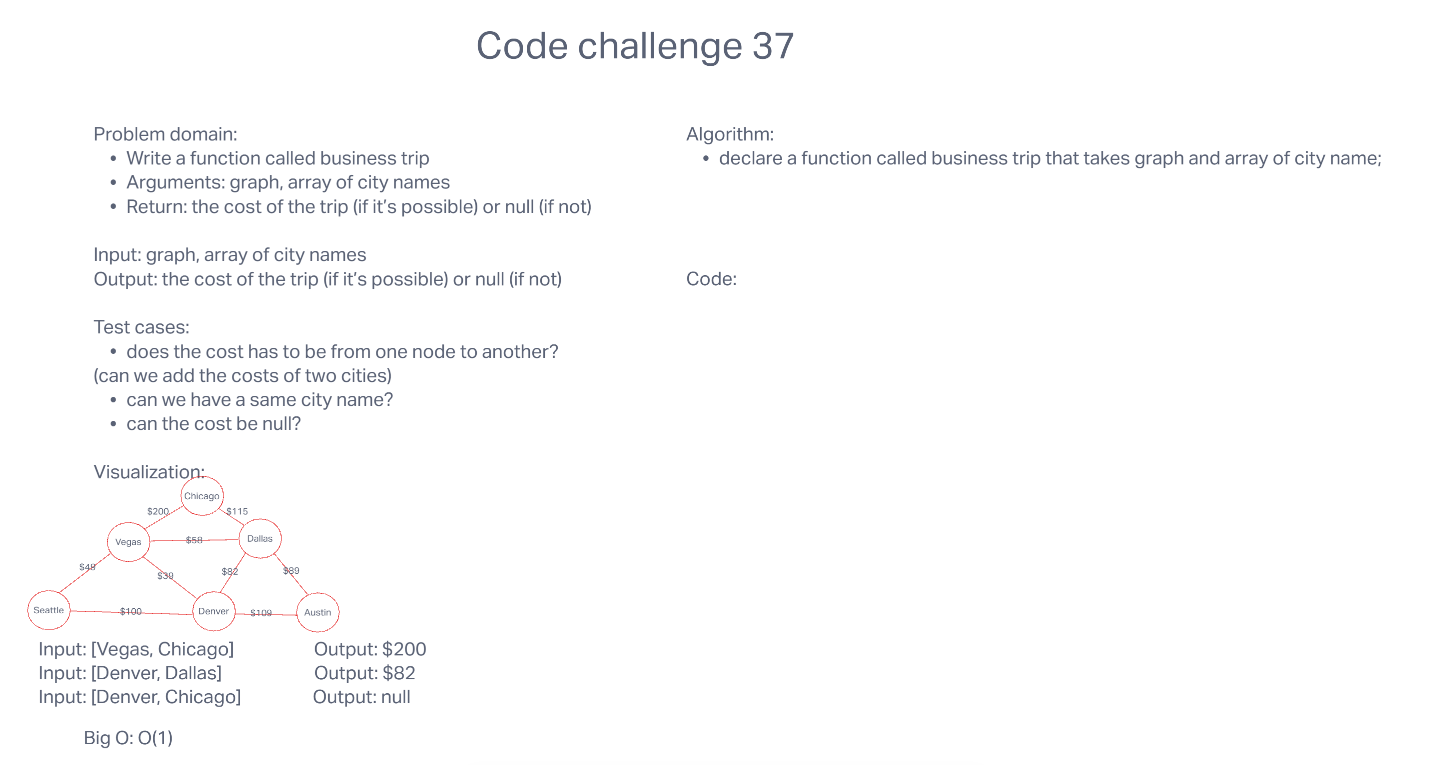
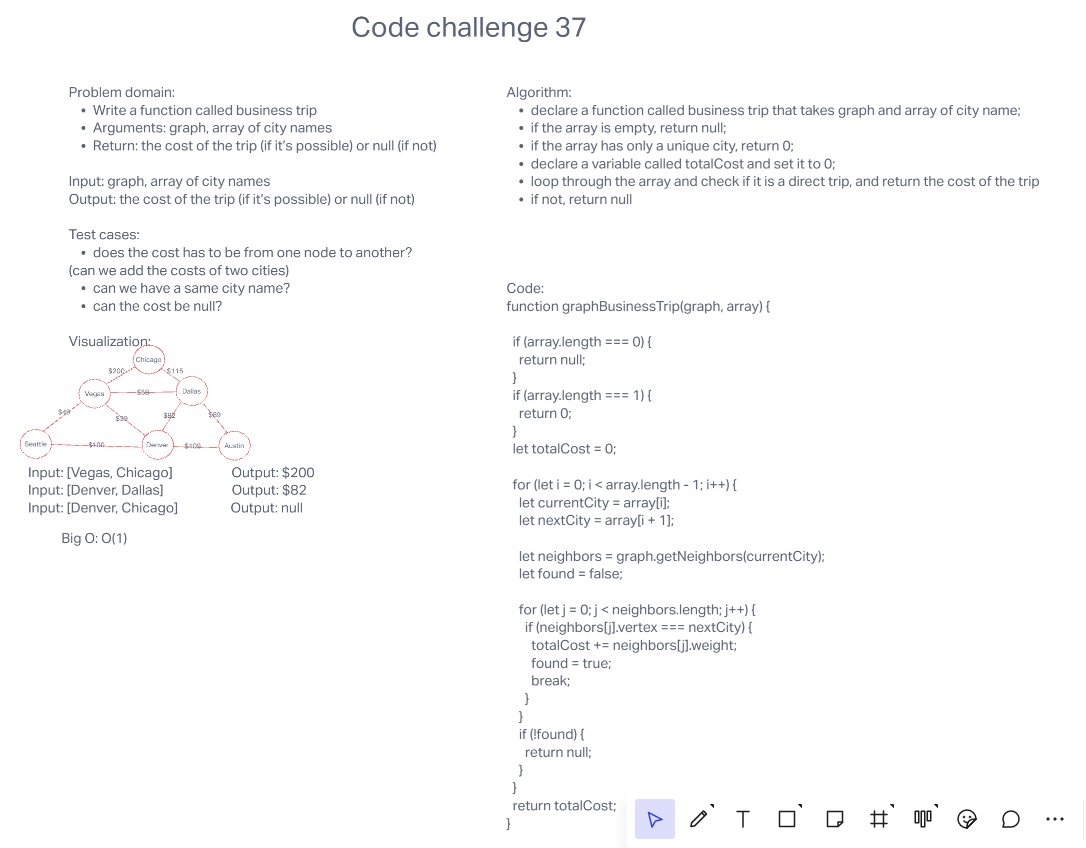
added code challenge 37

diff --git a/javascript/graph-business-trip/graph-business-trip-test.js b/javascript/graph-business-trip/graph-business-trip-test.js
@@ -1,0 +1,30 @@
+const businessTrip = require('./graph-business-trip');
+const { Graph } = require('../graph');
+
+describe('businessTrip', () => {
+
+  it('should return null if the array is empty', () => {
+    let graph = new Graph();
+    let array = [];
+    expect(businessTrip(graph, array)).toBeNull();
+  });
+
+  it('should return 0 if the array has one city', () => {
+    let graph = new Graph();
+    let array = ['Seattle'];
+    expect(businessTrip(graph, array)).toEqual(0);
+  });
+
+
+  it('should return the cost of the trip if the trip is possible', () => {
+    let graph = new Graph();
+    graph.addVertex('Seattle');
+    graph.addVertex('Portland');
+    graph.addVertex('San Francisco');
+    graph.addDirectedEdge('Seattle', 'Portland', 100);
+    graph.addDirectedEdge('Portland', 'San Francisco', 200);
+    let array = ['Seattle', 'Portland', 'San Francisco'];
+    expect(businessTrip(graph, array)).toEqual(300);
+  });
+
+});

diff --git a/javascript/graph-business-trip/graph-business-trip.js b/javascript/graph-business-trip/graph-business-trip.js
@@ -1,0 +1,34 @@
+'use strict';
+
+function graphBusinessTrip(graph, array) {
+
+  if (array.length === 0) {
+    return null;
+  }
+  if (array.length === 1) {
+    return 0;
+  }
+  let totalCost = 0;
+
+  for (let i = 0; i < array.length - 1; i++) {
+    let currentCity = array[i];
+    let nextCity = array[i + 1];
+
+    let neighbors = graph.getNeighbors(currentCity);
+    let found = false;
+
+    for (let j = 0; j < neighbors.length; j++) {
+      if (neighbors[j].vertex === nextCity) {
+        totalCost += neighbors[j].weight;
+        found = true;
+        break;
+      }
+    }
+    if (!found) {
+      return null;
+    }
+  }
+  return totalCost;
+}
+
+module.exports = graphBusinessTrip;

diff --git a/javascript/graph-business-trip/README.md b/javascript/graph-business-trip/README.md
@@ -12,7 +12,44 @@
 
 ## Approach & Efficiency
 
-
+* declare a function called business trip that takes graph and array of city name;
+* if the array is empty, return null;
+* if the array has only a unique city, return 0;
+* declare a variable called totalCost and set it to 0;
+* loop through the array and check if it is a direct trip, and return the cost of the trip
+* if not, return null
 
 ## Solution
 
+Code:
+
+function graphBusinessTrip(graph, array) {
+
+  if (array.length === 0) {
+    return null;
+  }
+  if (array.length === 1) {
+    return 0;
+  }
+  let totalCost = 0;
+  
+  for (let i = 0; i < array.length - 1; i++) {
+    let currentCity = array[i];
+    let nextCity = array[i + 1];
+
+    let neighbors = graph.getNeighbors(currentCity);
+    let found = false;
+
+    for (let j = 0; j < neighbors.length; j++) {
+      if (neighbors[j].vertex === nextCity) {
+        totalCost += neighbors[j].weight;
+        found = true;
+        break;
+      }
+    }
+    if (!found) {
+      return null;
+    }
+  }
+  return totalCost;
+}

diff --git a/Code Challenge 13.md b/Code Challenge 13.md
@@ -13,9 +13,11 @@ There are 3 types of brackets:
 * Curly Brackets : {}
 
 ## Whiteboard Process
+
 We started by understanding the problem domain and know exactly the end-goal. We went through the visualization and then define our algorithm and pseudo code.
 
 ## Author & Co-Author
+
 Timothee Oduhsina, Robert Ball
 
 ## Solution
